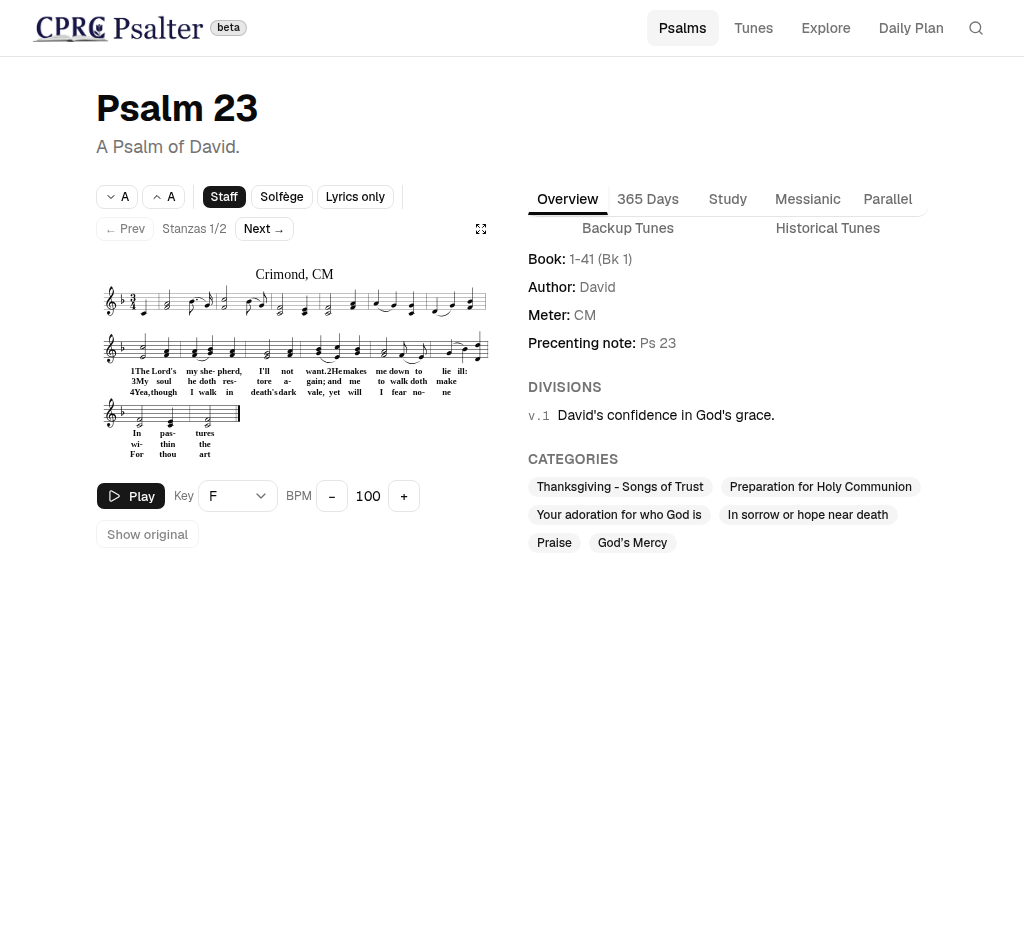
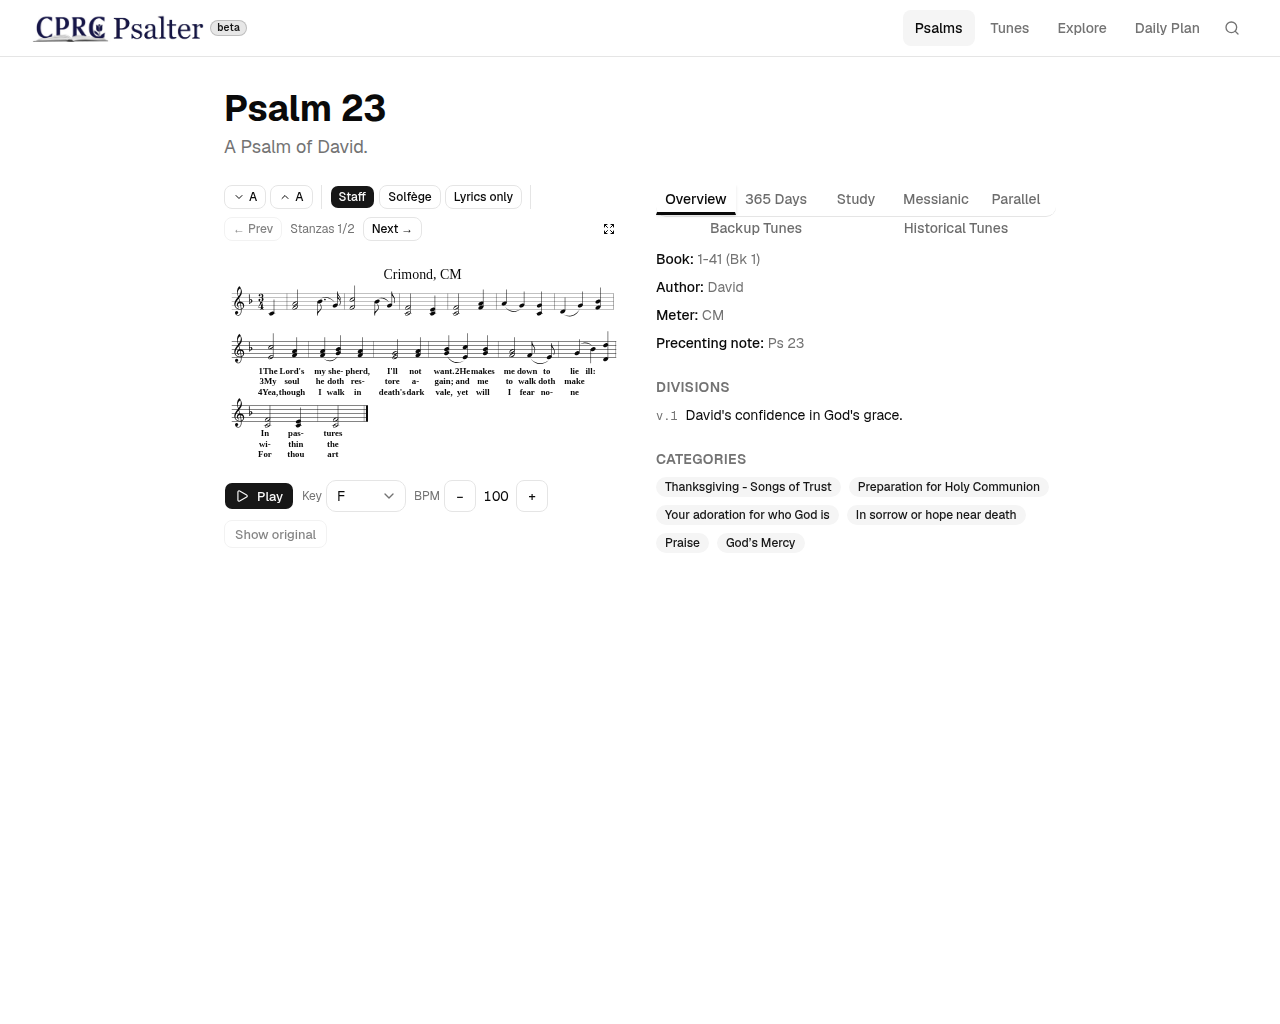
docs(quick): UAT screenshots + capture script for soprano-from-SATB
Quick task 260514: refresh /psalms/23, /tunes/126 (Franconia), /tunes/30
(Crimond) screenshots at 375/768/1024 viewports after replacing
abc_notation with SATB-extracted soprano. Tune 126 (Franconia) added.

DB counts after live run:
- 148 backed up to abc_notation_legacy
- 144 replaced with extractMelodyVoice(abc_satb)
- 4 unchanged (no abc_satb)
- annotate-phrase-breaks --overwrite re-annotated 137 (matches Plan 02 original count)

diff --git a/scripts/uat/260514-soprano-screenshots.js b/scripts/uat/260514-soprano-screenshots.js
@@ -1,0 +1,54 @@
+/**
+ * Quick task 260514 — soprano-from-SATB visual verification.
+ *
+ *   NODE_PATH=/usr/lib/node_modules node scripts/uat/260514-soprano-screenshots.js
+ *
+ * Captures /psalms/23, /tunes/126 (Franconia), /tunes/30 (Crimond) at
+ * 375 / 768 / 1024 viewports. Overwrites the existing 04.9.2 screenshots
+ * in scripts/uat/screenshots/ — those were taken with the old
+ * extractTuneV2 abc_notation and need to be refreshed.
+ */
+const { chromium } = require('/usr/lib/node_modules/playwright')
+const path = require('path')
+
+const BASE_URL = process.env.PSALTER_BASE_URL || 'http://localhost:3005'
+const SCREENSHOT_DIR = path.resolve(__dirname, 'screenshots')
+const EXECUTABLE_PATH = '/tmp/pw-browsers/chromium-1217/chrome-linux/chrome'
+
+const TARGETS = [
+  { slug: 'psalm-23', url: '/psalms/23' },
+  { slug: 'tune-126', url: '/tunes/126' }, // Franconia
+  { slug: 'tune-30', url: '/tunes/30' },   // Crimond
+]
+const VIEWPORTS = [
+  { name: 'mobile-375',  width: 375,  height: 800 },
+  { name: 'tablet-768',  width: 768,  height: 1024 },
+  { name: 'desktop-1024', width: 1280, height: 1024 },
+]
+
+async function main() {
+  const browser = await chromium.launch({
+    executablePath: EXECUTABLE_PATH,
+    args: ['--no-sandbox'],
+  })
+  try {
+    for (const t of TARGETS) {
+      for (const v of VIEWPORTS) {
+        const context = await browser.newContext({ viewport: { width: v.width, height: v.height } })
+        const page = await context.newPage()
+        const fullUrl = `${BASE_URL}${t.url}`
+        console.log(`  ${t.slug} @ ${v.name} -> ${fullUrl}`)
+        await page.goto(fullUrl, { waitUntil: 'networkidle', timeout: 30000 })
+        // Give abcjs a beat to render the SVG (it runs in useEffect post-mount)
+        await page.waitForTimeout(800)
+        const out = path.join(SCREENSHOT_DIR, `${t.slug}-${v.name === 'desktop-1024' ? 'desktop-1024' : v.name}.png`)
+        await page.screenshot({ path: out, fullPage: false })
+        console.log(`     -> ${out}`)
+        await context.close()
+      }
+    }
+  } finally {
+    await browser.close()
+  }
+}
+main().catch(e => { console.error(e); process.exit(1) })
